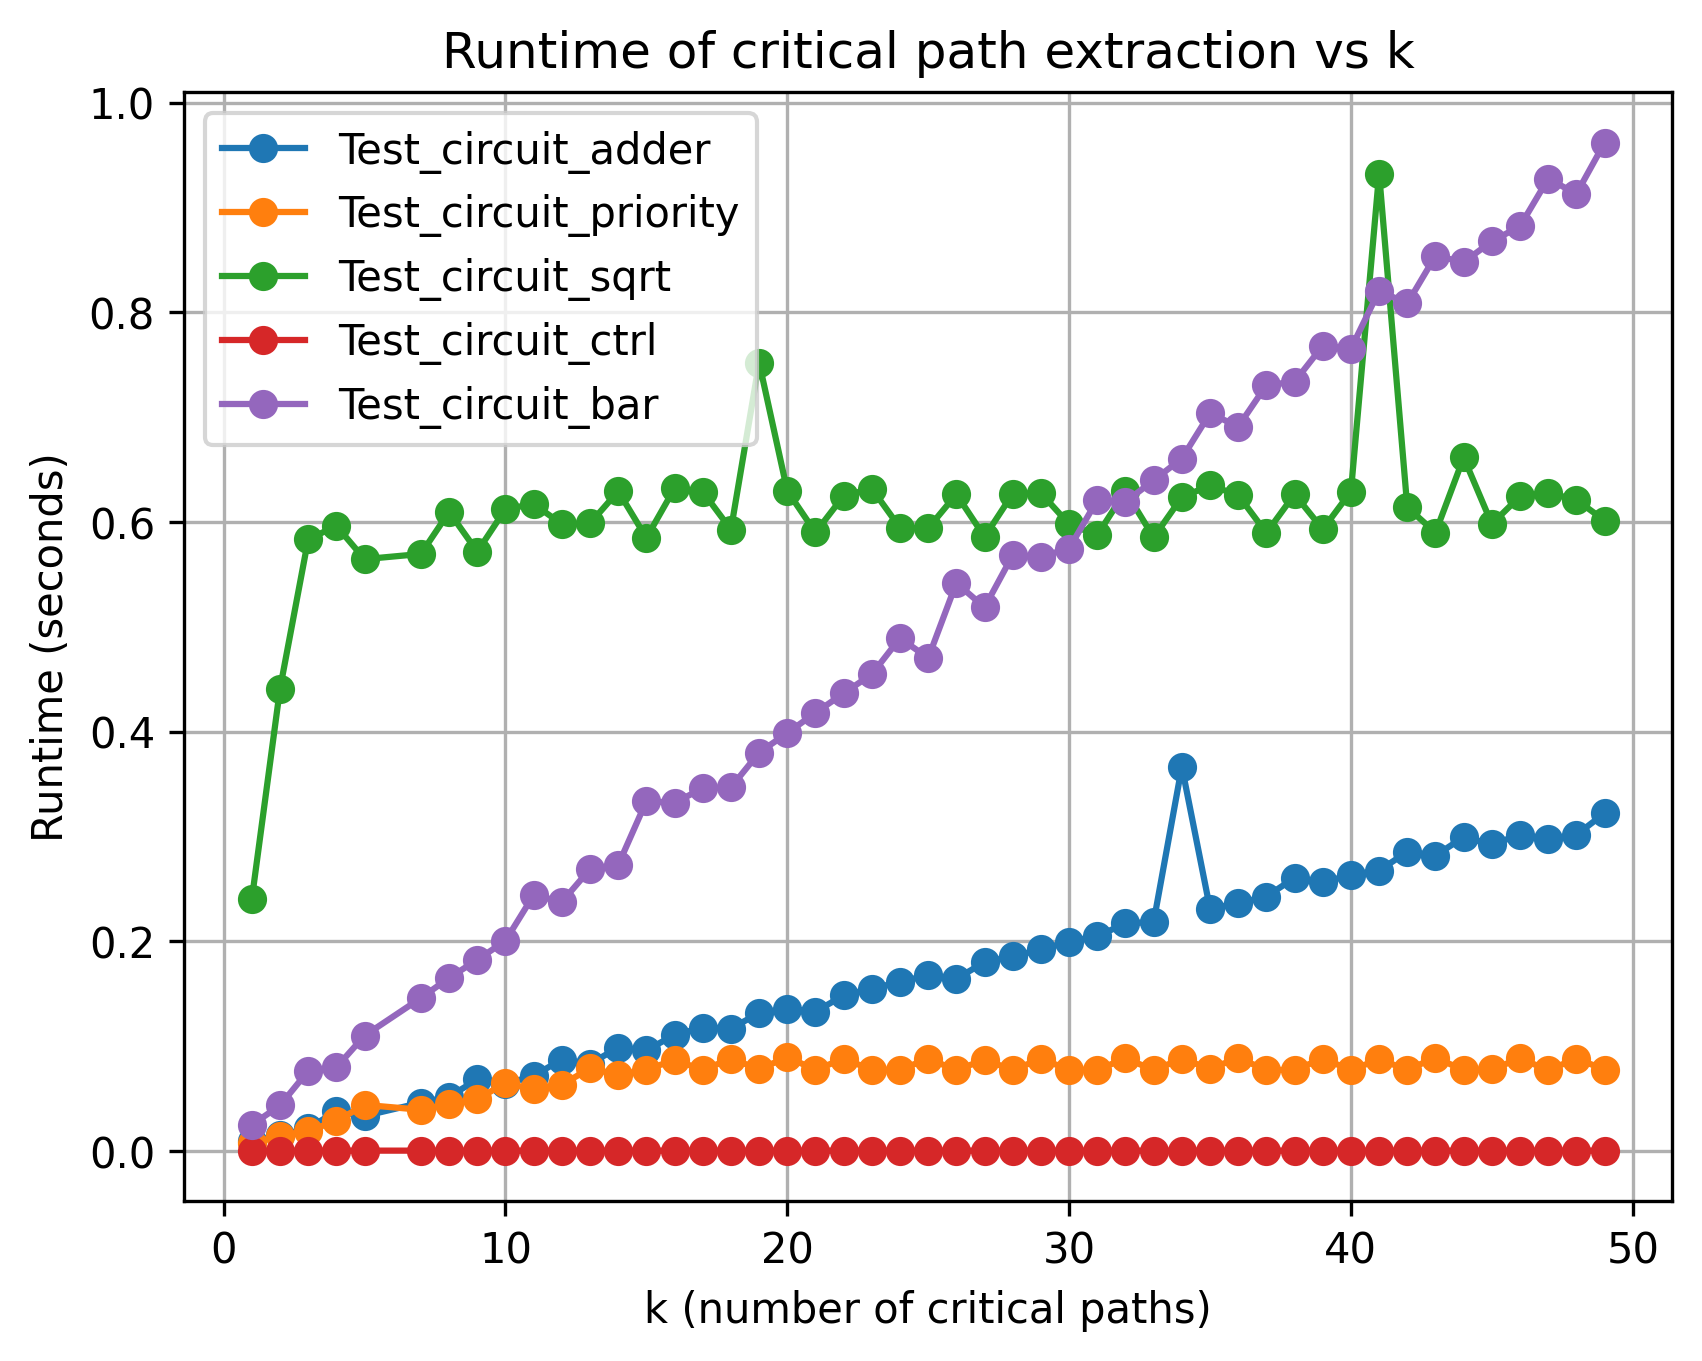
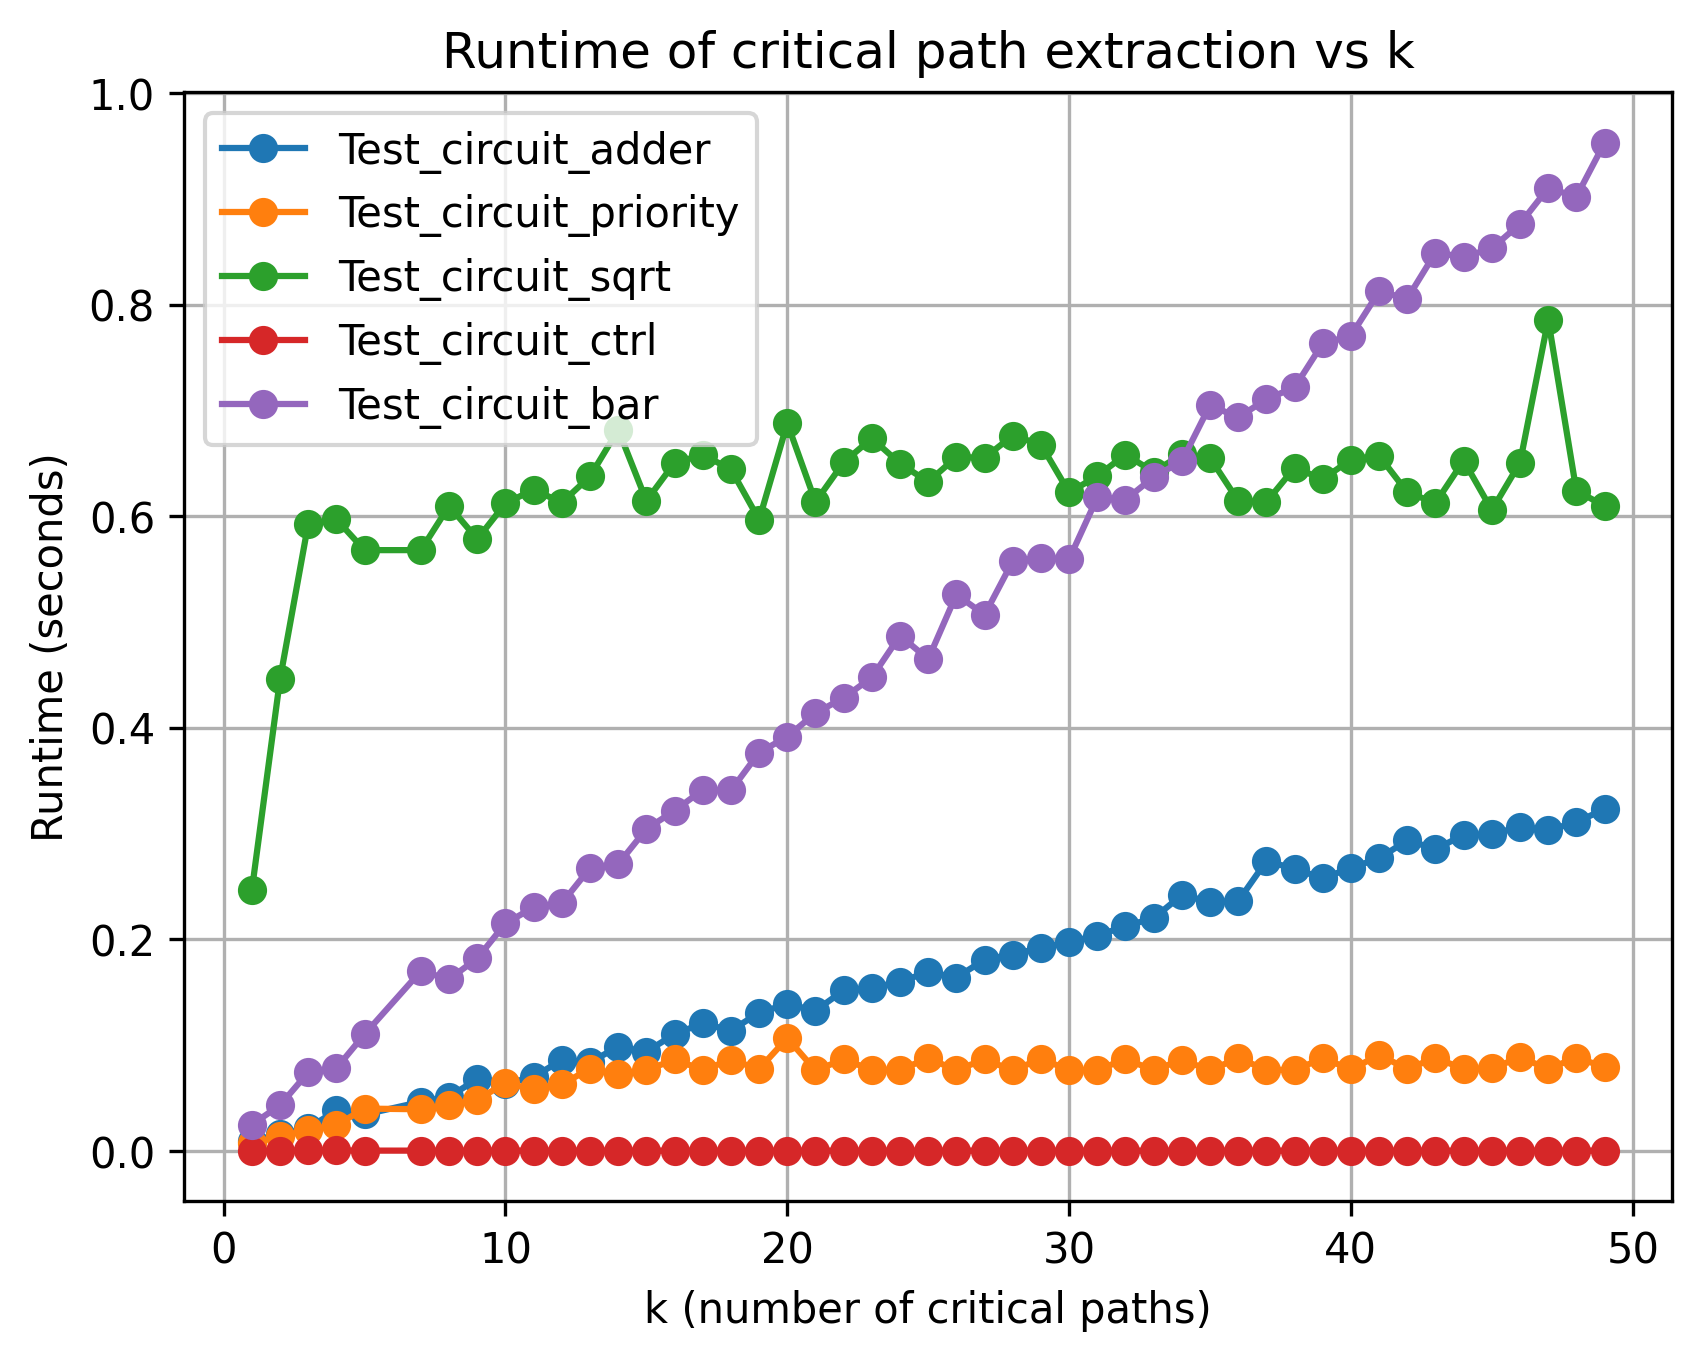
coomit

diff --git a/sta/run_sta.py b/sta/run_sta.py
@@ -223,7 +223,7 @@ if __name__ == "__main__":
             from sta.verilog_parcer import build_graph_from_verilog
 
     # Load Verilog netlist and build timing DAG
-    netlist_path = os.path.join(project_root, "benches", "Test_circuit_bar.v")
+    netlist_path = os.path.join(project_root, "benches", "Test_circuit_priority.v")
     G, startpoints, endpoints = build_graph_from_verilog(netlist_path)
 
     delays = [G[u][v]["delay"] for u, v in G.edges()]
@@ -244,7 +244,7 @@ if __name__ == "__main__":
     print(f"Nodes: {len(G.nodes())}, Edges: {len(G.edges())}")
 
     # Timing parameters
-    Tclk = 2.5
+    Tclk = 3
     setup = 0.05
     clock_to_q = 0.06
 
@@ -292,7 +292,7 @@ if __name__ == "__main__":
 
     # Visualize the timing graph with critical paths highlighted
     if critical_paths:
-        pos = nx.spring_layout(G, seed=12)
+        pos = nx.spring_layout(G, seed=42)
 
         nx.draw_networkx_nodes(G, pos, node_size=30, node_color="lightgray")
         nx.draw_networkx_edges(

diff --git a/sta/runtime_plot.py b/sta/runtime_plot.py
@@ -30,7 +30,7 @@ except ImportError:
 
 
 # Values of k to test
-K_VALUES: List[int] = list(range(1, 6)) + list(range(7, 50, 1))
+K_VALUES: List[int] = list(range(1, 6)) + list(range(7, 50, 5))
 
 # Benchmarks to test (Verilog filenames without extension)
 BENCHMARKS: Dict[str, str] = {

diff --git a/sta/slack_computation.py b/sta/slack_computation.py
@@ -1,3 +1,4 @@
+# slack_computation.py
 import math
 import networkx as nx
 from typing import Dict, Hashable, Tuple

diff --git a/README.md b/README.md
@@ -1,4 +1,4 @@
-# STA (Static Timing Analysis) Tool
+# STA (Static Timing Analysis) Tool 🌅
 
 A Python package for performing static timing analysis on Verilog netlists, including finding k worst critical paths with gate-level delay modeling.
 
